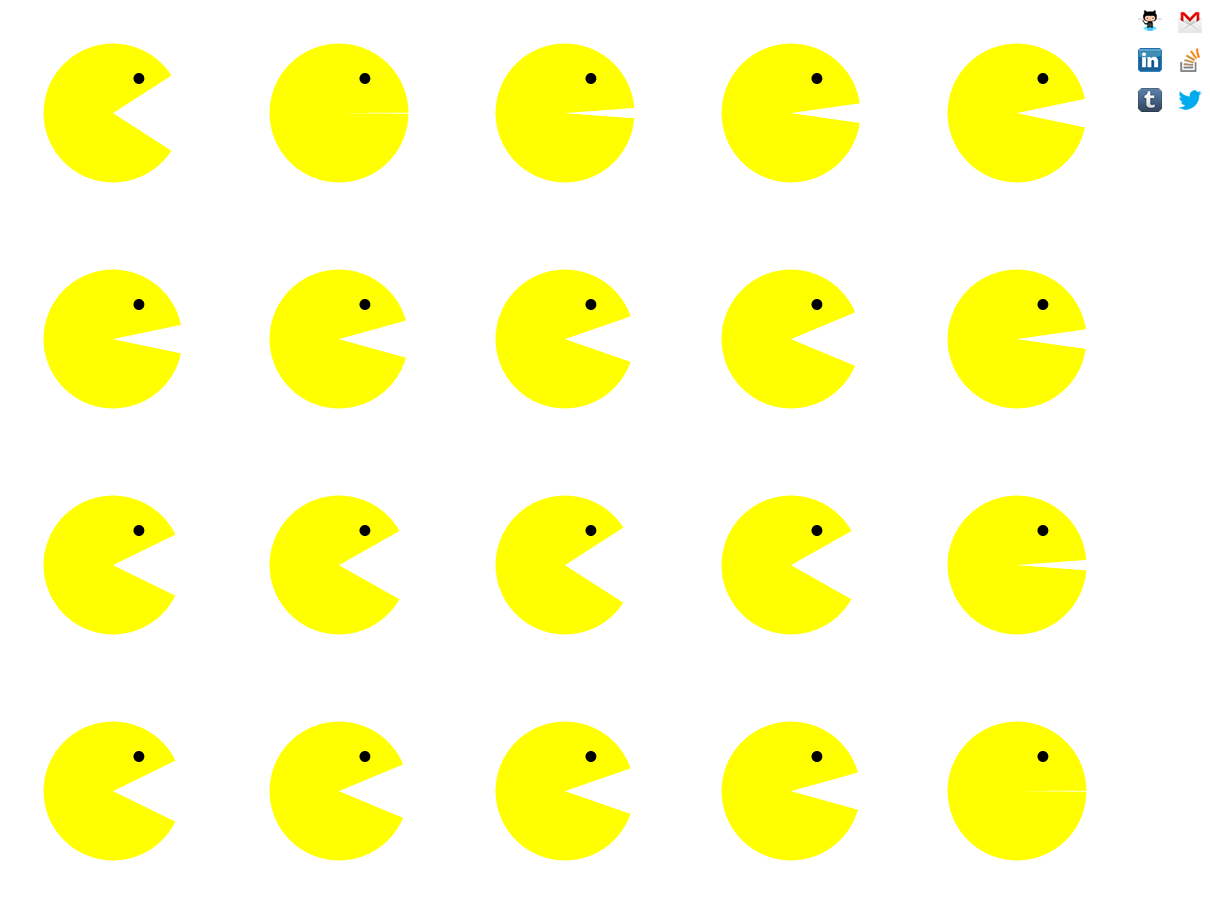
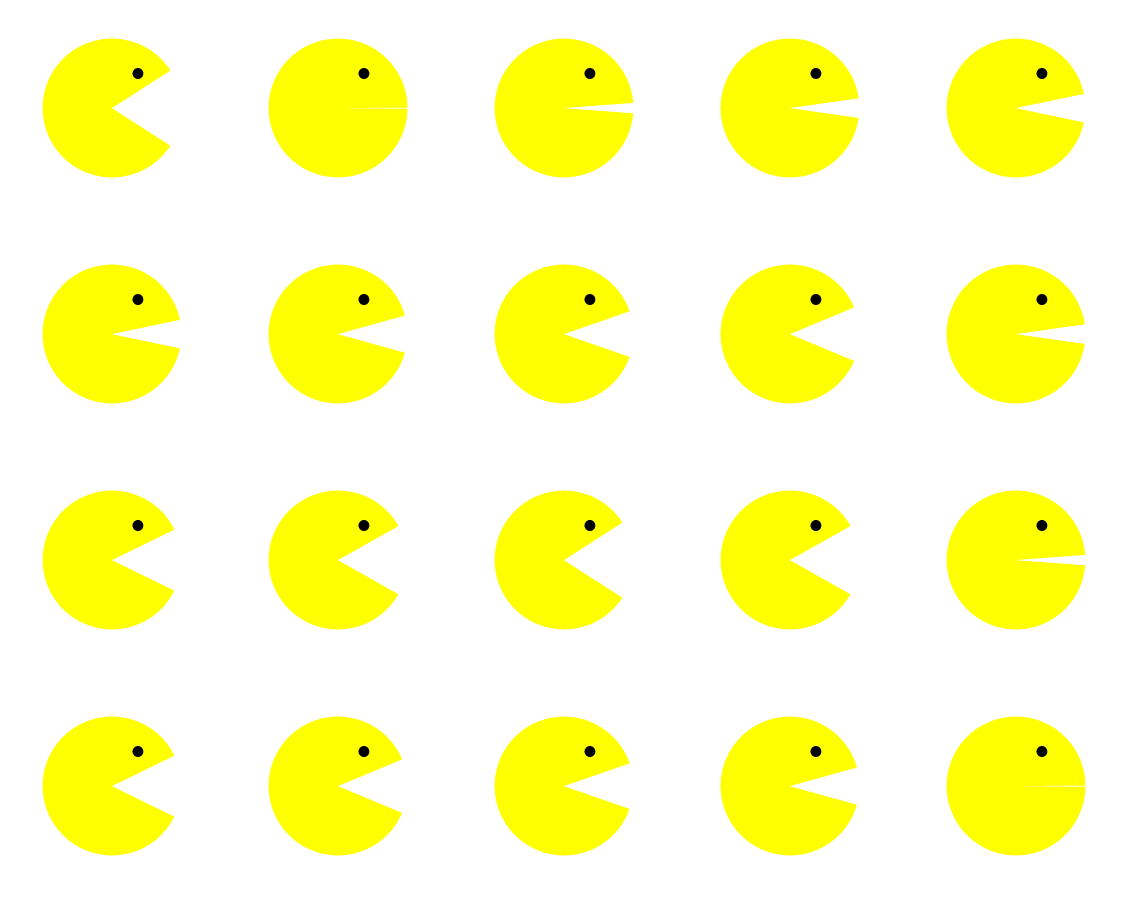
Mutlisprite changes

diff --git a/trackerFrameWork/multisprite.cpp b/trackerFrameWork/multisprite.cpp
@@ -22,7 +22,7 @@ MultiSprite::MultiSprite( const std::string& name) :
   worldHeight(WORLD_HEIGHT),
 
   currentFrame(0),
-  numberOfFrames( Gamedata::getInstance().getXmlInt(name+"/frames") ),
+  numberOfFrames( Gamedata::getInstance().getXmlInt(name+"/xframes") * Gamedata::getInstance().getXmlInt(name+"/yframes") ),
   frameInterval( Gamedata::getInstance().getXmlInt(name+"/frameInterval") ),
   timeSinceLastFrame( 0 ),
   frameWidth(frames[0]->getWidth()),
